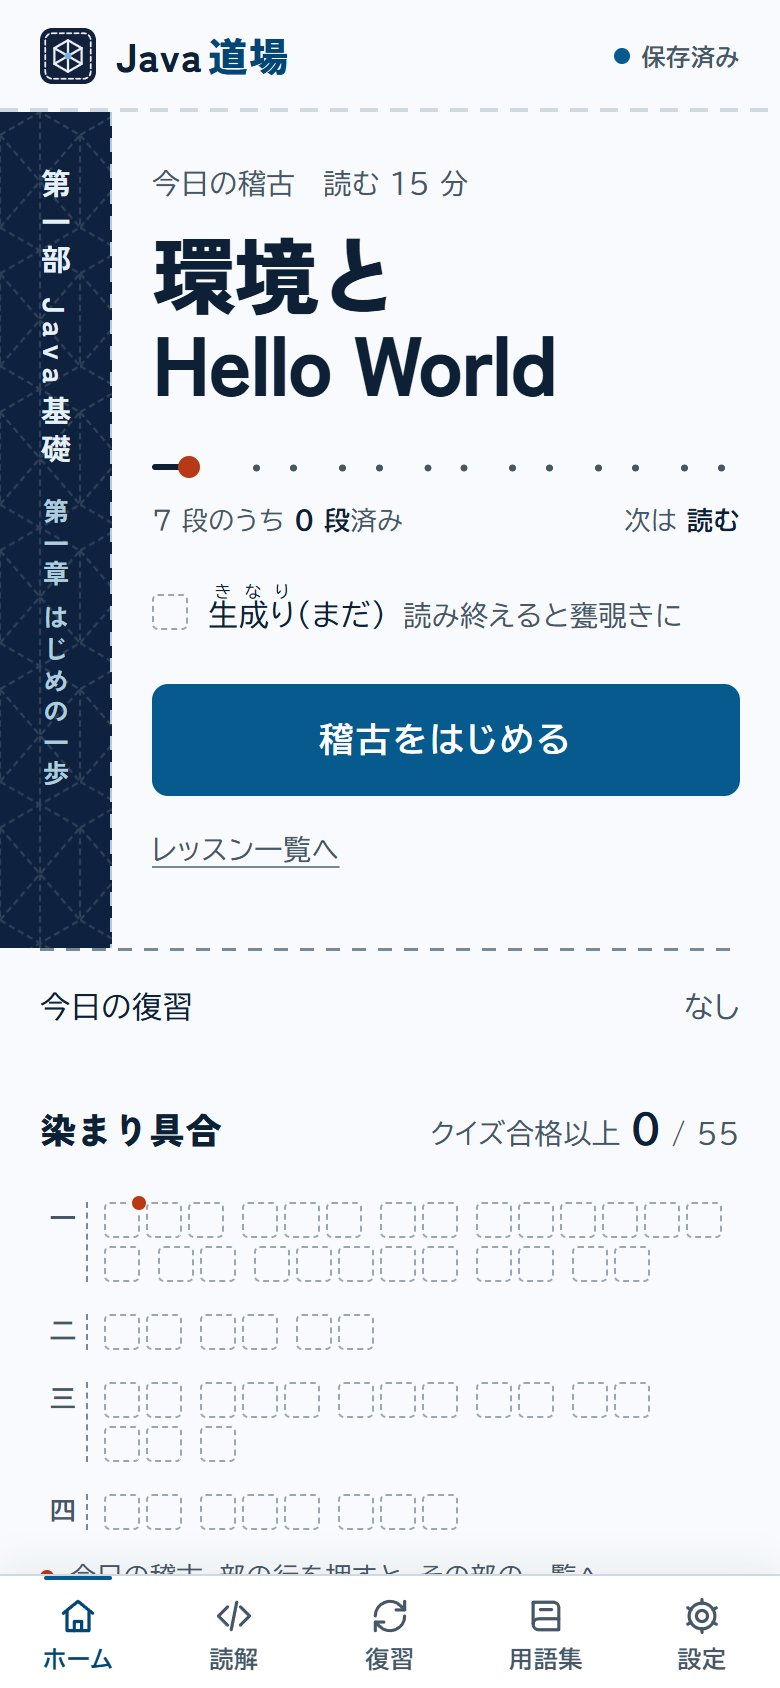
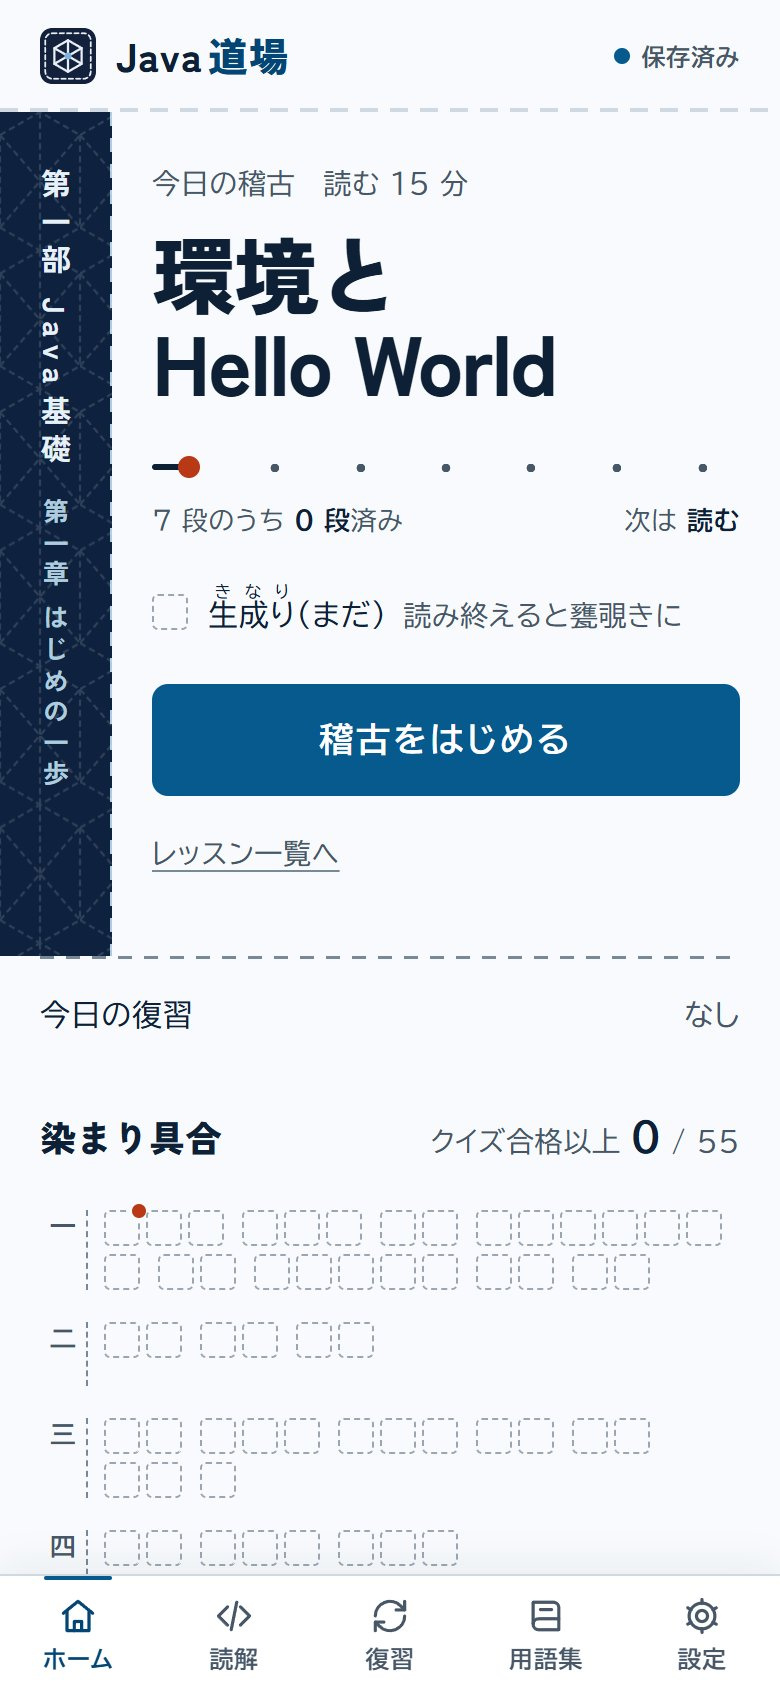
docs: 15 回目の審査の記録、16 回目の撮影とオフラインの確認を残した

diff --git a/docs/reviews/round15-codex.md b/docs/reviews/round15-codex.md
@@ -1,0 +1,37 @@
+# 15 回目の審査(Codex・決まった物差し)
+
+対象: `docs/screenshots/round15/` と `round14/` の比較、ソースと `docs/review-rubric.md`。凍結したコミット 6279e8d で審査した。
+
+## 点数
+Design: 8.5 / Usability: 8.0 / Creativity: 9.0 / Content: 8.5
+
+## 項目の判定
+D1 満たす / D2 満たす / D3 満たす / D4 満たす / D5 一部（残り高さが小さい場合、段一覧がナビに重なる）
+
+U1 満たす / U2 満たす / U3 一部（400px超でコード注釈が13pxに戻る） / U4 一部（段一覧の高さ制限・用語集の操作領域に不足） / U5 満たす
+
+C1 満たす / C2 満たす / C3 満たす / C4 満たす
+
+N1 満たす / N2 満たす / N3 満たす / N4 満たす
+
+判定範囲は同名16組の左右比較、関連ソース、既存のオフライン画像・記録。C4は実装確認。実機操作・読み上げ・動きの実見は未検証。両版JavaScriptの`node --check`と配布用CSS・JSの一致確認は通過。`./mvnw test`は書き込みを伴うため未実行。ファイル変更なし。
+
+## 前回からの変化(良くなった・悪くなった)
+
+- **良くなった：見出しと軸の統一。** 「DI と IoC」の和欧間隔が整った。レッスンの軸も角のない帯になり、PCでは本文より下へ垂れていた余白が解消。ホームと教材が同じデザインとしてつながった。
+- **良くなった：運針が段数と対応。** 未完了の点が1段1個になり、「4段済み・次は演習」と図を矛盾なく読める。独自性を保ったまま情報表示が改善した。
+- **良くなった：390pxの読みやすさと操作領域。** 仕事コード・注釈が14pxになり、読解コードも大きくなった。ホームの副リンク、地図の行、パンくずは44pxへ改善。
+- **良くなった：撮影条件での段一覧。** 下部ナビの手前に下端が収まり、内部スクロールの領域ができた。ただし、低い画面への対応は残っている。
+- **良くなった：教材の前提。** Lombokの説明に未初期化と`@NonNull`が補足され、スキャン範囲もDI本文で出題前に説明される。前回のN1・N2の指摘は解消と判断する。[Lombok公式仕様](https://projectlombok.org/features/constructor)、[Spring Boot公式説明](https://docs.spring.io/spring-boot/reference/using/using-the-springbootapplication-annotation.html)。
+- **悪くなった点：比較画像では実用上の退行なし。** 文字拡大で一画面のコード量は減ったが、読む用途では改善。長音記号の空きも、読みに支障がないため減点しない。
+
+## 8.5 に届かない理由(項目・画面・直し方)
+
+1. **U3｜スマホの仕事コード：14pxへの修正が400px以下に限定されている。**  
+   [app.css:654](C:/Users/yeol0/Claude/Sayana-r15/src/main/resources/static/css/app.css:654)の注釈は13pxで、14pxへの上書きは400px以下と1024px以上。したがって、**414px・430px幅では注釈が再び13pxになる**。390pxの比較画像では直っているが、スマホ全体では基準未達。注釈の基本値を14pxにし、狭い幅では余白と字下げだけを調整する。
+
+2. **U4・D5｜スマホの段一覧：残り高さより160pxの下限が優先される。**  
+   [app.js:733](C:/Users/yeol0/Claude/Sayana-r15/src/main/resources/mobile/app.js:733)は`Math.max(160, 残り高さ)`。例えばナビまで100pxしかなければ、一覧は160pxまで伸び、末尾が再びナビの裏に入る。これはソース上の残存条件で、今回の390×844px画像では解消している。**実際の残り高さを上限にする**か、十分な高さが取れない場合は段の帯を上へ移してから開く。内部スクロールの末尾までナビ上端に収まることを確認する。
+
+3. **U4｜用語集：レッスンへ戻るリンクが高さ32pxのまま。**  
+   `m-terms.jpg`の「条件分岐」「文字列」などは、[app.css:724](C:/Users/yeol0/Claude/Sayana-r15/src/main/resources/static/css/app.css:724)で操作領域が32pxに縮められている。前回指摘されたホーム側は直ったが、用語を調べて教材へ戻る導線には44px未満が残る。**文字の大きさは維持し、リンクの高さを44px以上にする**。隣の説明文へ操作領域を重ねず、上下の余白で確保する。

diff --git a/docs/design-review.md b/docs/design-review.md
@@ -40,6 +40,8 @@ Claude と Codex が交互にレビューし、Awwwards の 4 項目(Design / Us
 | 13 | Claude | — | — | — | — | 実行せず(続けるかをユーザーに確かめるため止めた) |
 | 14 | Codex | 8.5 | 8.0 | 9.0 | 8.0 | いいえ(顔の作り直し後・決まった物差しの最初の回) |
 | 14 | Claude | 8.0 | 8.0 | 9.0 | 8.5 | いいえ(同上) |
+| 15 | Codex | 8.5 | 8.0 | 9.0 | 8.5 | いいえ(Usability だけ 8.0) |
+| 15 | Claude | 8.5 | 8.5 | 9.0 | 8.5 | **はい**(初めて全項目 8.5 以上) |
 
 ## 1 回目(撮影: `docs/screenshots/round1/`、全文: [reviews/round1-codex.md](reviews/round1-codex.md)・[reviews/round1-claude.md](reviews/round1-claude.md))
 
@@ -414,3 +416,21 @@ Codex が利用上限から戻り、4 回目以来の審査をした。点は Cl
 | レッスンの軸 | 角をなくし、本文の高さに合わせる。スマホは画面の左端まで。PC は軸を部だけにし、章は現在地の行に出す |
 | 教材 | DI の本文にコンポーネントスキャンの範囲を先に書いた。Lombok は「初期化していない final(と @NonNull)」に |
 | 長音記号の空き | 直していない(書体の字形の空きで、読むのに困るほどではないと判断) |
+
+## 15 回目(撮影: `docs/screenshots/round15/`、全文: [reviews/round15-codex.md](reviews/round15-codex.md)・[reviews/round15-claude.md](reviews/round15-claude.md))
+Claude は初めて全項目 8.5 以上(8.5 / 8.5 / 9.0 / 8.5)。Codex は Usability だけ 8.0 で、ほかは 8.5 以上。14 回目の指摘は両方とも「直った」と判定。
+
+### 主な指摘
+- 説明の 14px が 400px 以下と 1024px 以上だけで、414・430px 幅では 13px に戻る(Codex)
+- 段の一覧の高さに下限 160px があり、残りが少ないとまた下のメニューの裏へ入る(Codex)。一覧が段の切れ目でちょうど切れ、続きがあると分からない(Claude)
+- 用語集から教材へ戻るリンクが 32px(Codex)
+- 「コードを読む」の長音記号の両側の空き(Claude。8.5 には影響しないと明記)
+
+### 直したこと(16 回目の前)
+| 指摘 | 直し方 |
+|---|---|
+| 説明の大きさ | 基本の値を 14px に(主従は色と左の線で)。PC は 15px のコードと 14px の説明 |
+| 段の一覧の下限 | 残りが 3 段分に満たないときは段の帯を上へ送ってから測る。高さは「段 × n + 半段」にして、次の段を半分見せる |
+| 用語集のリンク | 押せる高さを 44px に(字の大きさは同じ) |
+| オフラインの撮影 | 撮り直した(16 回目) |
+| 長音記号 | 直していない(見出しの書体に palt がなく、字形の空き。読むのに困らないと両方が判断) |

diff --git a/docs/reviews/round15-claude.md b/docs/reviews/round15-claude.md
@@ -1,0 +1,26 @@
+# 15 回目の審査(Claude・作業の経緯を知らないサブエージェント・決まった物差し)
+
+対象: `docs/screenshots/round15/` と `round14/` の比較、ソースと `docs/review-rubric.md`。凍結したコミット 6279e8d で審査した。
+
+## 点数
+Design: 8.5 / Usability: 8.5 / Creativity: 9.0 / Content: 8.5
+
+## 項目の判定
+- D1 一部(「IoC」の両側の空きは直った。読解の題「コードを読む」の長音記号の両側が空いて見える)/ D2〜D5 満たす
+- U1〜U3 満たす / U4 一部(段の一覧は中でスクロールすれば 6・7 段目を押せるようになったが、5 段目の下端でちょうど切れ、続きがあると分からない)/ U5 満たす
+- C1〜C4 満たす(C4 は動きを止めて撮っているので実装を読んで判断)
+- N1〜N4 満たす
+
+## 前回からの変化
+- 良くなった: 段の一覧が下のメニューの裏へ伸びず、中でスクロールする。390px でコードと説明が 14px。運針の針穴が 1 段 1 個。大きな題の和欧の空きが両側に。レッスンの軸が角のない帯になり、PC で垂れなくなった。44px の操作領域。Lombok とスキャン範囲の説明
+- 変わらない: 「コードを読む」の長音記号の空き
+- 悪くなった所: 見当たらない
+- 注意: オフラインの撮影が 14 回目のままで、運針の針穴が 1 段 2 個の古い画面
+
+## 8.5 に届かない理由
+なし(どの軸も 8.5 以上)。
+
+参考(9 に届かない理由。採点には入れていない):
+1. D1 — 「コードを読む」の長音記号の前後だけ字間を詰める
+2. U4 — 一覧の高さを「行 × n + 半行」にして次の段を半分見せる。または、スクロールできるときだけ下端にフェード
+3. Content は、教材の正しさを一部しか確かめていないので 9 にしなかった
